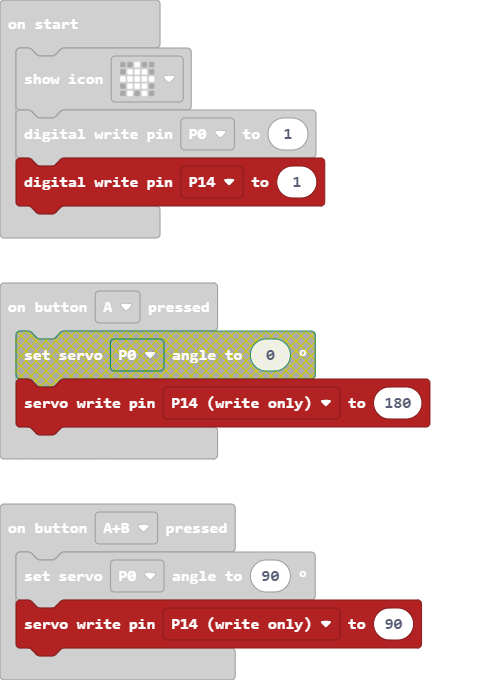
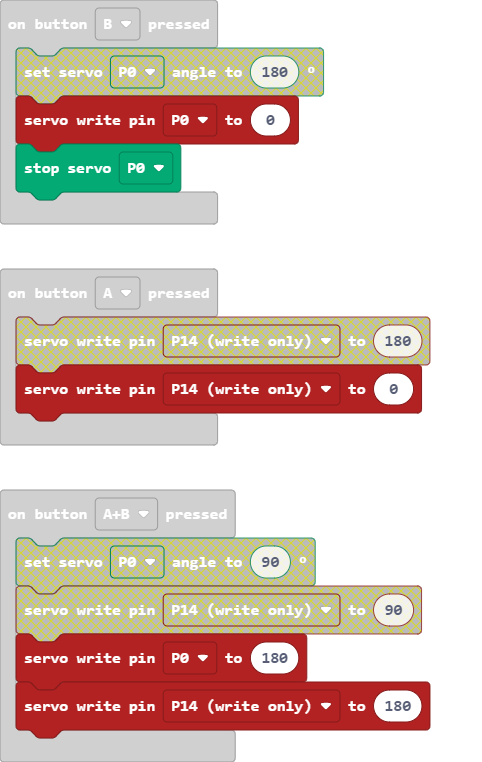
Update main.blocks, main.ts

diff --git a/main.ts b/main.ts
@@ -1,12 +1,13 @@
 input.onButtonPressed(Button.A, function () {
-    pins.servoWritePin(AnalogPin.P14, 180)
+    pins.servoWritePin(AnalogPin.P14, 0)
 })
 input.onButtonPressed(Button.AB, function () {
-    servos.P0.setAngle(90)
-    pins.servoWritePin(AnalogPin.P14, 90)
+    pins.servoWritePin(AnalogPin.P0, 180)
+    pins.servoWritePin(AnalogPin.P14, 180)
 })
 input.onButtonPressed(Button.B, function () {
-    servos.P0.setAngle(180)
+    pins.servoWritePin(AnalogPin.P0, 0)
+    servos.P0.stop()
 })
 basic.showIcon(IconNames.House)
 pins.digitalWritePin(DigitalPin.P0, 1)
